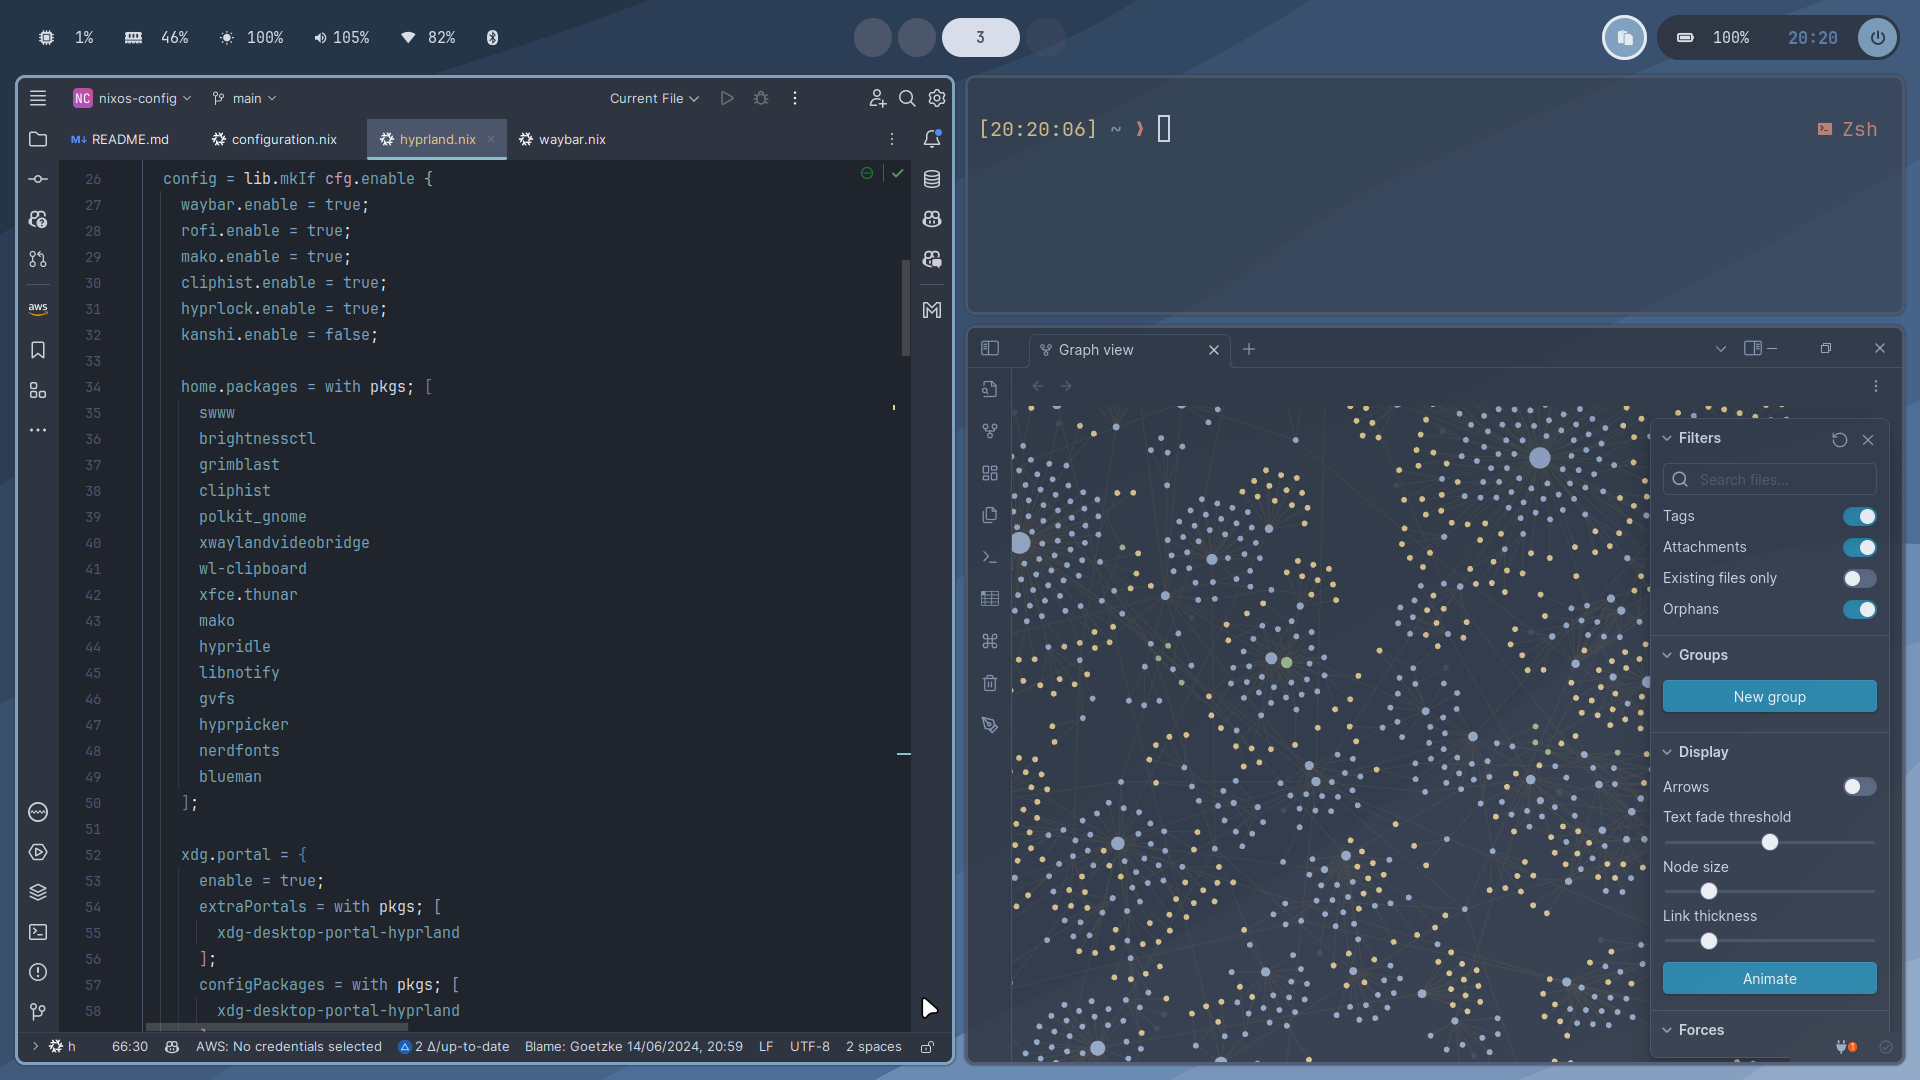
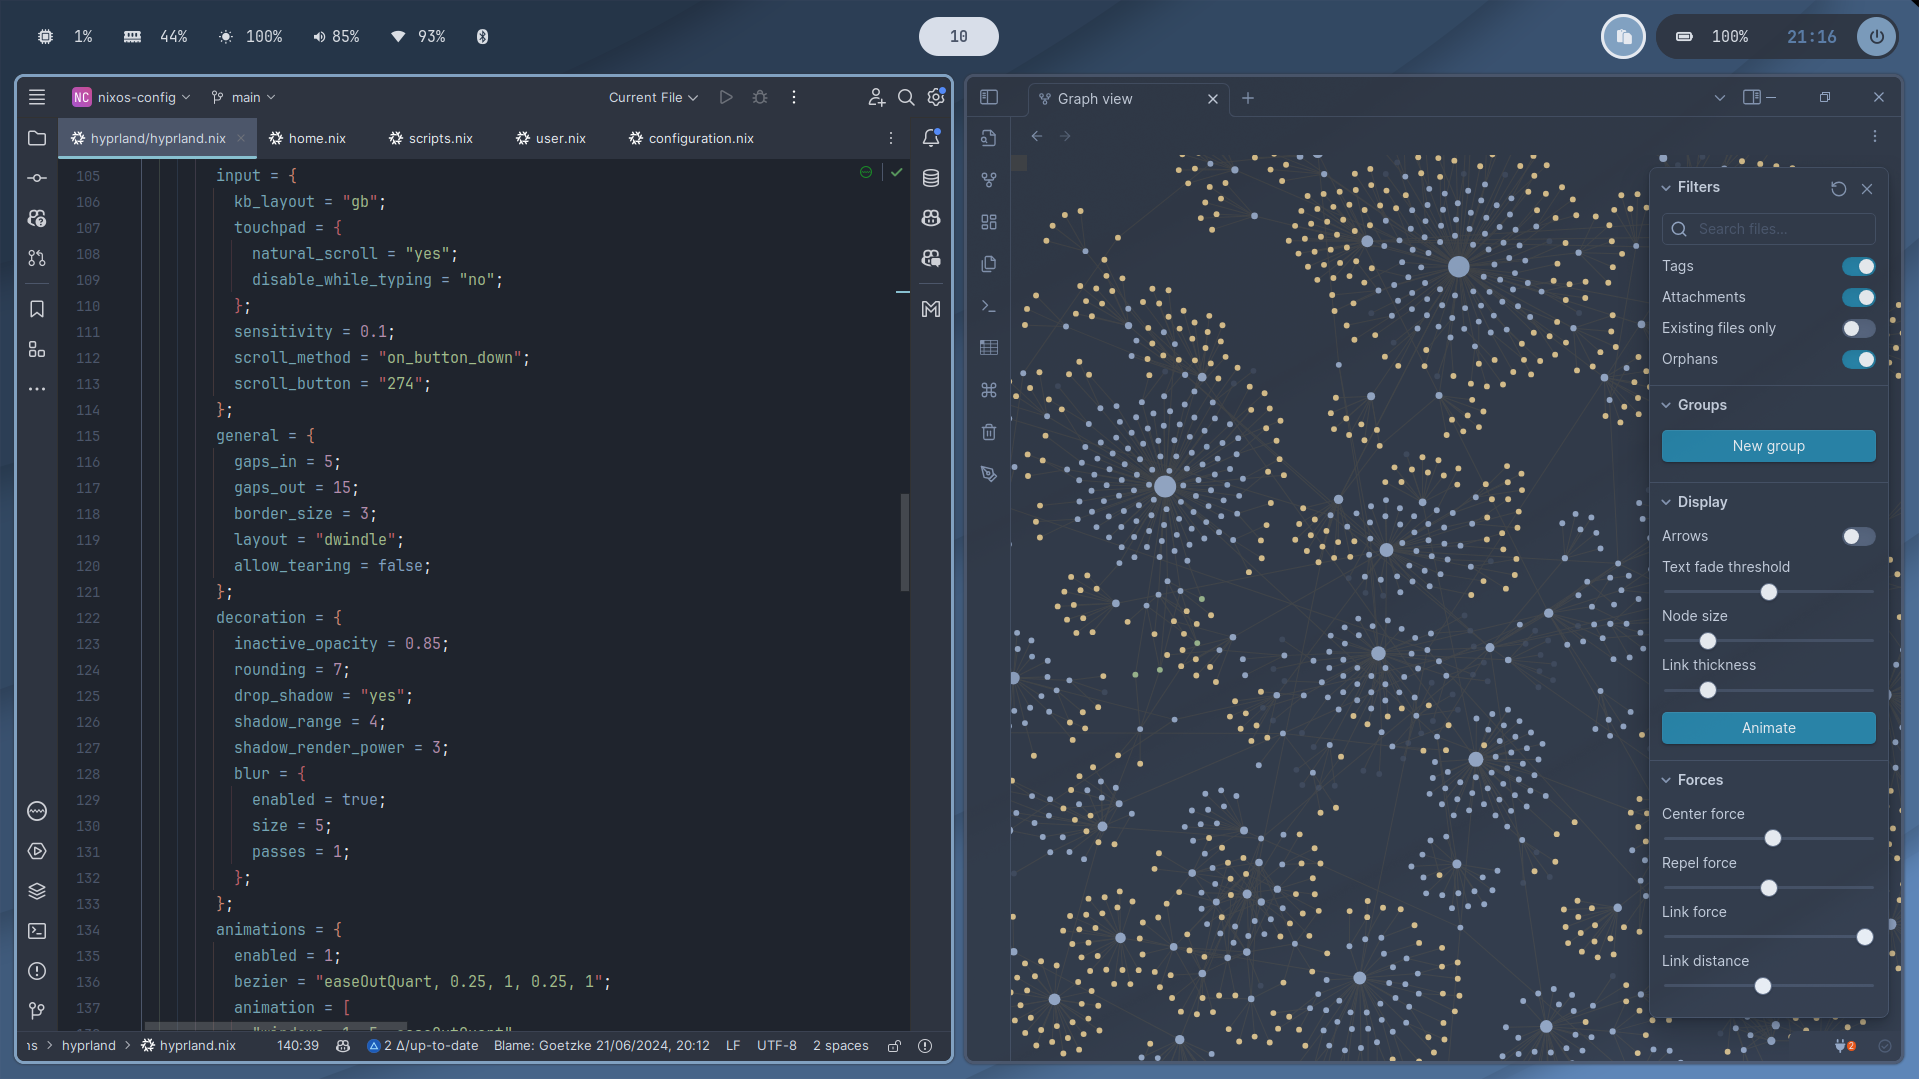
Update more screenshots and README

diff --git a/README.md b/README.md
@@ -8,28 +8,27 @@ take inspiration from it.
 > This is a single user, multi system configuration. Only Wayland with Hyprland (see screenshots below) and Gnome have
 > been configured and can be toggled between.
 
-...but what is NixOS? It's a Linux distribution that allows for declarative and reproducible system configuration.
+...but what is NixOS? It's a Linux distribution that allows for declarative and reproducible system configurations.
 See [https://nixos.org/](https://nixos.org) for more information.
 
 ## Features
 
-- **Nix OS** with **Flakes** for system configurations
-- **Home Manager** for user configurations
+- **NixOS** with **Flakes** and **Home Manager**
 - **Wayland** with **Hyprland** (or **X11** with **Gnome**) as desktop environment
-- **Waybar** status bar with **mako** notifications
+- **Waybar** status bar with **Mako** notifications
 - **Rofi** application launcher
 - **Hyprlock** and **Hypridle** for screen locking and idle management
 - **Alacritty** terminal emulator
 - **Firefox** web browser
 - **Zsh** shell
-- **VS Code** and **JetBrains Toolbox** for IDEs
-- **Docker** and **Postman** as web development tools
+- **VS Code** text editor and **JetBrains Toolbox** for IDEs
+- **Docker** and **Postman** as additional web development tools
 - **Btop** system monitoring
 - **Cliphist** clipboard manager
 - **Mpv** media player
-- **Blueman** bluetooth manager
 - **Kooha** GIF screen recorder & **wf-recorder** MP4 screen recorder
 - **Satty** with **Slurp** and **Grim** for screenshots
+- **Blueman** bluetooth manager
 
 ## Screenshots
 
